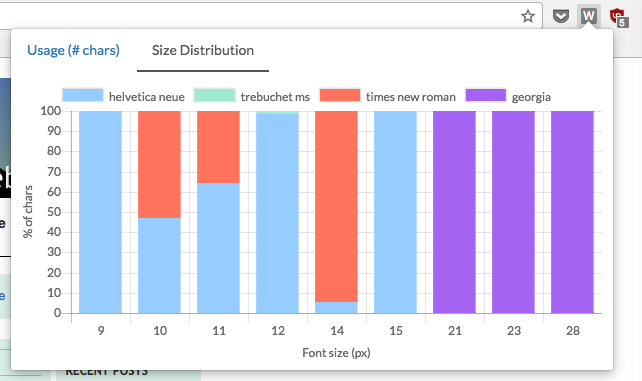
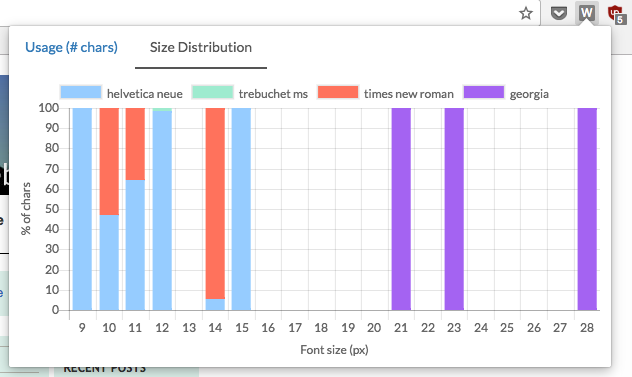
Bugfix: Convert font size from str to int

diff --git a/popup.js b/popup.js
@@ -70,7 +70,7 @@ chrome.tabs.query({active: true, currentWindow: true}, function(tabs) {
         var size_labels = []
         for (var fontSize in response.fontSizeUsage) {
             if (response.fontSizeUsage.hasOwnProperty(fontSize)) {
-                size_labels.push(fontSize)
+                size_labels.push(parseInt(fontSize))
             }
         }
 
